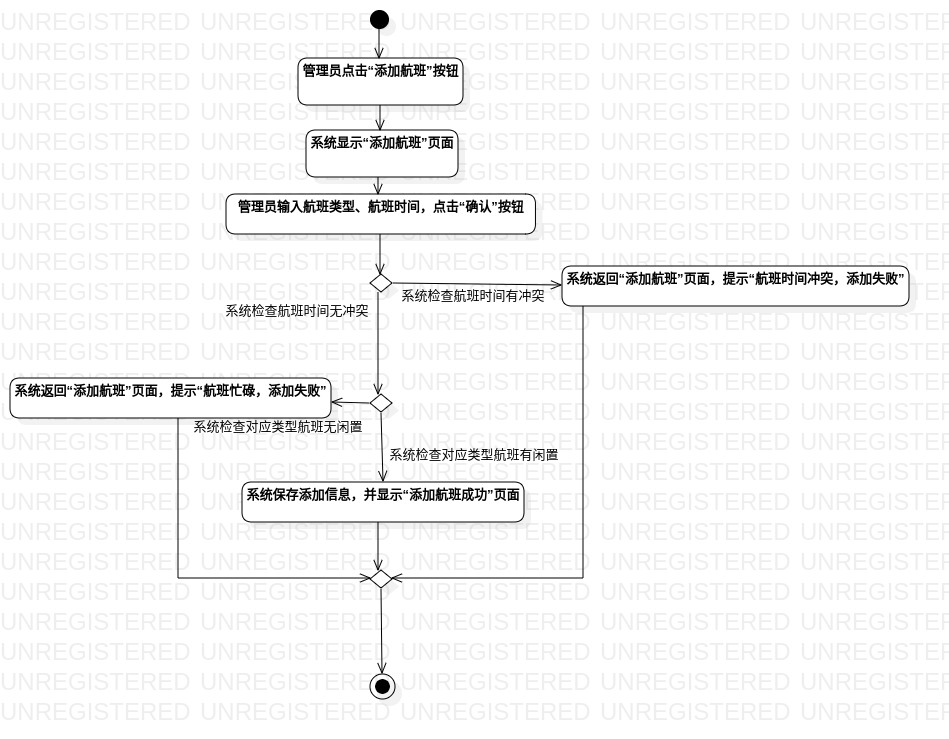
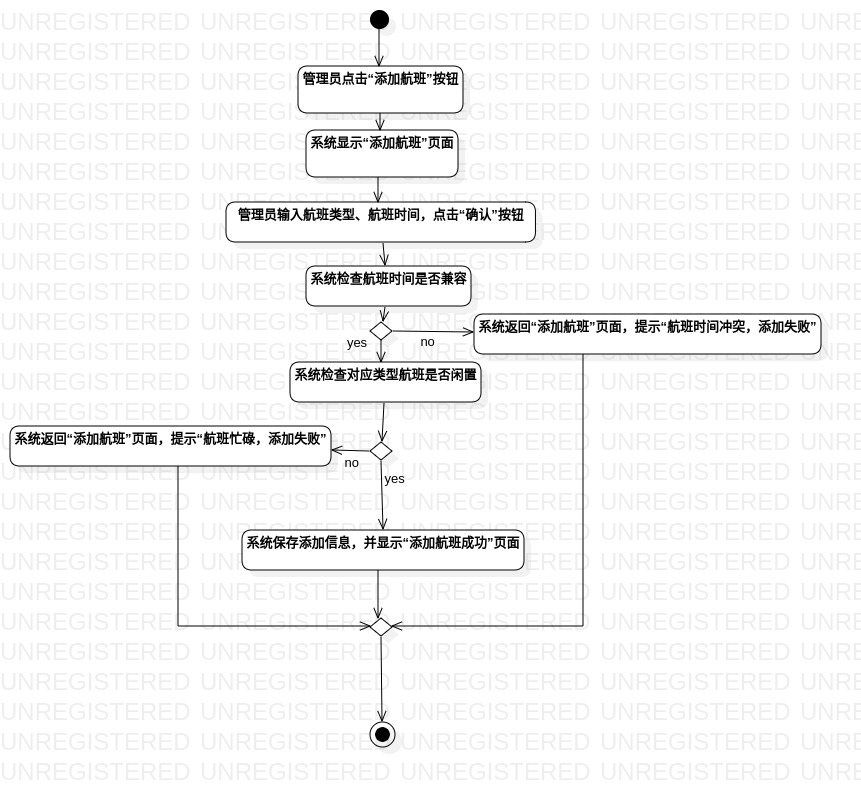
Update lab2.md && lab3.md

Changed region(s): [[0.0, 0.0, 0.9663, 0.8092], [0.3926, 0.8714, 0.453, 0.9648]]

diff --git a/students/1714080901141/lab2.md b/students/1714080901141/lab2.md
@@ -51,9 +51,9 @@
 基本流程  | 1. 管理员点击“添加航班”按钮；  | *用例执行成功的步骤*
 ~| 2. 系统显示“添加航班”页面；  | 
 ~| 3. 管理员输入航班类型、航班时间，点击“确认”按钮； |
-~| 4. 系统检查对应类型航班有闲置、航班时间无冲突，保存添加信息，并显示“添加航班成功”页面。 |    
+~| 4. 系统检查对应类型航班有闲置、航班时间可兼容，保存添加信息，并显示“添加航班成功”页面。 |    
 扩展流程  | 4.1 系统检查对应类型航班无闲置，返回“添加航班”页面，提示“航班忙碌，添加失败”;  |*用例执行失败的步骤*
-~| 4.2 系统检查航班时间有冲突，返回“添加航班”页面，提示“航班时间冲突，添加失败”。  |
+~| 4.2 系统检查航班时间不可兼容，返回“添加航班”页面，提示“航班时间冲突，添加失败”。  |
 ##### 表2：取消航班用例规约
 用例编号  | UC02 | 备注  
 -|:-|-  

diff --git a/students/1714080901141/lab3.md b/students/1714080901141/lab3.md
@@ -55,7 +55,7 @@
 - 依据用例规约的基本流程和拓展流程，实现过程建模
 #### 2. 活动图画法如下（画法顺序不唯一）：
 - 创建Activity Diagra -> 添加初始结点、添加结束结点 -> 添加活动、分支处添加决策 -> 添加流程线、调整整体
-
+#### 3. 决策前应有类似检查的动作
 ## 六、实验调试
 #### Q1:
 what:  
